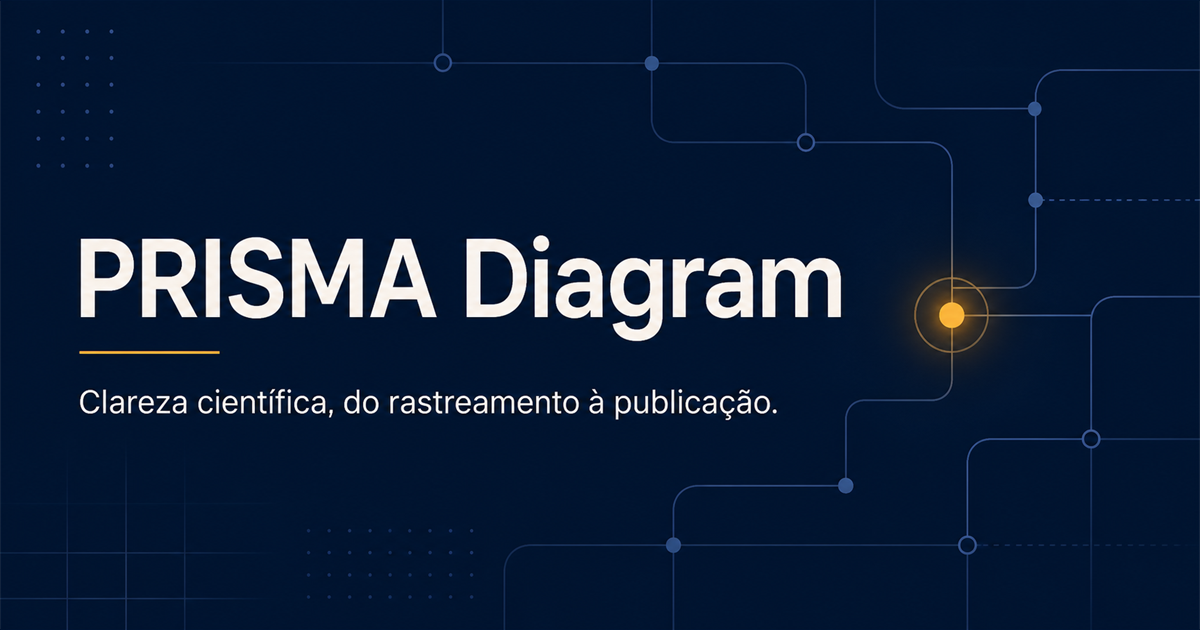
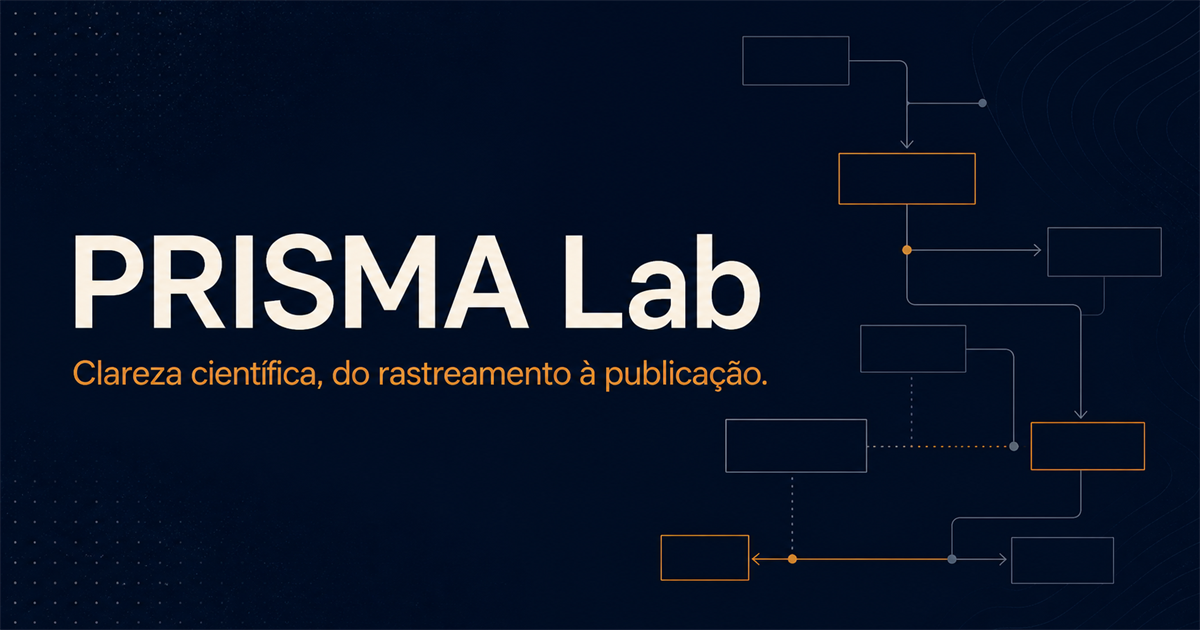
feat: rename application to PRISMA Lab

diff --git a/web/src/components/LandingPage.tsx b/web/src/components/LandingPage.tsx
@@ -5,12 +5,12 @@ import { useApp } from '../app/AppProviders';
 import type { Locale } from '../domain/types';
 
 const landing: Record<Locale, { eyebrow: string; title: string; emphasis: string; lead: string; primary: string; secondary: string; privacy: string; section: string; sectionLead: string }> = {
-  'pt-BR': { eyebrow: 'PRISMA 2020 · dados locais · seis idiomas', title: 'Diagrama', emphasis: 'PRISMA', lead: 'Construa, verifique e publique diagramas PRISMA 2020 com orientação metodológica, cálculos rastreáveis e controle total dos seus dados.', primary: 'Criar meu diagrama', secondary: 'Entender o PRISMA', privacy: 'Seus projetos permanecem neste navegador. Nenhum dado científico é enviado por padrão.', section: 'Uma ferramenta de relato, não um atalho metodológico.', sectionLead: 'Cada recurso preserva a distinção entre registros, relatos e estudos — sem corrigir dados científicos silenciosamente.' },
-  en: { eyebrow: 'PRISMA 2020 · local data · six languages', title: 'PRISMA', emphasis: 'Diagram', lead: 'Build, check and publish PRISMA 2020 diagrams with methodological guidance, traceable calculations and full control of your data.', primary: 'Create my diagram', secondary: 'Understand PRISMA', privacy: 'Projects stay in this browser. No scientific data is sent by default.', section: 'A reporting tool, not a methodological shortcut.', sectionLead: 'Every feature preserves the distinction between records, reports and studies—without silently correcting scientific data.' },
-  it: { eyebrow: 'PRISMA 2020 · dati locali · sei lingue', title: 'Diagramma', emphasis: 'PRISMA', lead: 'Crea, verifica e pubblica diagrammi PRISMA 2020 con guida metodologica, calcoli tracciabili e pieno controllo dei dati.', primary: 'Crea il diagramma', secondary: 'Comprendere PRISMA', privacy: 'I progetti restano nel browser. Nessun dato scientifico viene inviato per impostazione predefinita.', section: 'Uno strumento di reporting, non una scorciatoia metodologica.', sectionLead: 'Ogni funzione distingue record, report e studi senza correggere silenziosamente i dati.' },
-  fr: { eyebrow: 'PRISMA 2020 · données locales · six langues', title: 'Diagramme', emphasis: 'PRISMA', lead: 'Créez, vérifiez et publiez des diagrammes PRISMA 2020 avec des calculs traçables et le contrôle de vos données.', primary: 'Créer mon diagramme', secondary: 'Comprendre PRISMA', privacy: 'Les projets restent dans ce navigateur. Aucune donnée scientifique n’est envoyée par défaut.', section: 'Un outil de compte rendu, pas un raccourci méthodologique.', sectionLead: 'Chaque fonction distingue enregistrements, rapports et études sans corriger silencieusement les données.' },
-  de: { eyebrow: 'PRISMA 2020 · lokale Daten · sechs Sprachen', title: 'PRISMA', emphasis: 'Diagramm', lead: 'Erstellen, prüfen und veröffentlichen Sie PRISMA-2020-Diagramme mit nachvollziehbaren Berechnungen und voller Datenkontrolle.', primary: 'Diagramm erstellen', secondary: 'PRISMA verstehen', privacy: 'Projekte bleiben in diesem Browser. Wissenschaftliche Daten werden standardmäßig nicht gesendet.', section: 'Ein Berichtswerkzeug, keine methodische Abkürzung.', sectionLead: 'Jede Funktion unterscheidet Datensätze, Berichte und Studien, ohne Daten stillschweigend zu korrigieren.' },
-  'zh-CN': { eyebrow: 'PRISMA 2020 · 本地数据 · 六种语言', title: 'PRISMA', emphasis: '流程图', lead: '借助方法提示、可追溯计算和完全本地的数据控制，创建、检查并发布 PRISMA 2020 流程图。', primary: '创建流程图', secondary: '了解 PRISMA', privacy: '项目保存在此浏览器中，默认不会发送任何科研数据。', section: '报告工具，而非方法学捷径。', sectionLead: '每项功能都区分记录、报告和研究，绝不静默修改科研数据。' },
+  'pt-BR': { eyebrow: 'PRISMA 2020 · dados locais · seis idiomas', title: 'PRISMA', emphasis: 'Lab', lead: 'Construa, verifique e publique diagramas PRISMA 2020 com orientação metodológica, cálculos rastreáveis e controle total dos seus dados.', primary: 'Criar meu diagrama', secondary: 'Entender o PRISMA', privacy: 'Seus projetos permanecem neste navegador. Nenhum dado científico é enviado por padrão.', section: 'Uma ferramenta de relato, não um atalho metodológico.', sectionLead: 'Cada recurso preserva a distinção entre registros, relatos e estudos — sem corrigir dados científicos silenciosamente.' },
+  en: { eyebrow: 'PRISMA 2020 · local data · six languages', title: 'PRISMA', emphasis: 'Lab', lead: 'Build, check and publish PRISMA 2020 diagrams with methodological guidance, traceable calculations and full control of your data.', primary: 'Create my diagram', secondary: 'Understand PRISMA', privacy: 'Projects stay in this browser. No scientific data is sent by default.', section: 'A reporting tool, not a methodological shortcut.', sectionLead: 'Every feature preserves the distinction between records, reports and studies—without silently correcting scientific data.' },
+  it: { eyebrow: 'PRISMA 2020 · dati locali · sei lingue', title: 'PRISMA', emphasis: 'Lab', lead: 'Crea, verifica e pubblica diagrammi PRISMA 2020 con guida metodologica, calcoli tracciabili e pieno controllo dei dati.', primary: 'Crea il diagramma', secondary: 'Comprendere PRISMA', privacy: 'I progetti restano nel browser. Nessun dato scientifico viene inviato per impostazione predefinita.', section: 'Uno strumento di reporting, non una scorciatoia metodologica.', sectionLead: 'Ogni funzione distingue record, report e studi senza correggere silenziosamente i dati.' },
+  fr: { eyebrow: 'PRISMA 2020 · données locales · six langues', title: 'PRISMA', emphasis: 'Lab', lead: 'Créez, vérifiez et publiez des diagrammes PRISMA 2020 avec des calculs traçables et le contrôle de vos données.', primary: 'Créer mon diagramme', secondary: 'Comprendre PRISMA', privacy: 'Les projets restent dans ce navigateur. Aucune donnée scientifique n’est envoyée par défaut.', section: 'Un outil de compte rendu, pas un raccourci méthodologique.', sectionLead: 'Chaque fonction distingue enregistrements, rapports et études sans corriger silencieusement les données.' },
+  de: { eyebrow: 'PRISMA 2020 · lokale Daten · sechs Sprachen', title: 'PRISMA', emphasis: 'Lab', lead: 'Erstellen, prüfen und veröffentlichen Sie PRISMA-2020-Diagramme mit nachvollziehbaren Berechnungen und voller Datenkontrolle.', primary: 'Diagramm erstellen', secondary: 'PRISMA verstehen', privacy: 'Projekte bleiben in diesem Browser. Wissenschaftliche Daten werden standardmäßig nicht gesendet.', section: 'Ein Berichtswerkzeug, keine methodische Abkürzung.', sectionLead: 'Jede Funktion unterscheidet Datensätze, Berichte und Studien, ohne Daten stillschweigend zu korrigieren.' },
+  'zh-CN': { eyebrow: 'PRISMA 2020 · 本地数据 · 六种语言', title: 'PRISMA', emphasis: 'Lab', lead: '借助方法提示、可追溯计算和完全本地的数据控制，创建、检查并发布 PRISMA 2020 流程图。', primary: '创建流程图', secondary: '了解 PRISMA', privacy: '项目保存在此浏览器中，默认不会发送任何科研数据。', section: '报告工具，而非方法学捷径。', sectionLead: '每项功能都区分记录、报告和研究，绝不静默修改科研数据。' },
 };
 
 const stages = [

diff --git a/web/src/features/export/exporters.ts b/web/src/features/export/exporters.ts
@@ -118,7 +118,7 @@ export async function generatePdf(project: PrismaProject, locale: Locale): Promi
   doc.setTextColor(16, 35, 63);
   doc.setFont('helvetica', 'bold');
   doc.setFontSize(15);
-  doc.text(project.title || 'PRISMA Diagram', ox, 14, { maxWidth: usableWidth });
+  doc.text(project.title || 'PRISMA Lab', ox, 14, { maxWidth: usableWidth });
   doc.setDrawColor(23, 52, 93);
   doc.setLineWidth(0.35);
   connections.forEach((connection) => drawConnectionPath(doc, connection.d, ox, oy, scale));
@@ -161,7 +161,7 @@ export async function generateXlsx(project: PrismaProject): Promise<Blob> {
 export function generateInteractiveHtml(project: PrismaProject, locale: Locale): string {
   const svg = generateSvg(project, locale).replace(/^<\?xml[^>]+>/, '');
   const details = getDiagramNodes(project, locale).map((node) => `<article id="detail-${node.id}"><h2>${html(node.lines[0])}</h2><p>${html(node.lines.slice(1).join(' · '))}</p><p>Origem: ${html(calculateProject(project).origins[node.field])}</p></article>`).join('');
-  return `<!doctype html><html lang="${locale}"><head><meta charset="utf-8"><meta name="viewport" content="width=device-width,initial-scale=1"><title>${html(project.title)} — PRISMA Diagram</title><style>body{margin:0;font:16px/1.6 system-ui;color:#10233f;background:#f5f1e8}header,main,footer{max-width:1100px;margin:auto;padding:24px}svg{max-width:100%;height:auto;background:white;border:1px solid #bac5d2}article{border-top:1px solid #bac5d2;padding:16px 0}g[role=link]{cursor:pointer}g[role=link]:hover rect{stroke:#c97a16;stroke-width:3}</style></head><body><header><h1>${html(project.title)}</h1><p>Baseado no PRISMA 2020 · ferramenta independente</p></header><main>${svg}<section id="details">${details}</section></main><footer>CC BY 4.0 · Gerado pelo PRISMA Diagram</footer><script>document.querySelectorAll('g[role=link]').forEach(function(n){n.addEventListener('click',function(){var d=document.getElementById('detail-'+n.id);if(d)d.scrollIntoView({behavior:'smooth'})})})</script></body></html>`;
+  return `<!doctype html><html lang="${locale}"><head><meta charset="utf-8"><meta name="viewport" content="width=device-width,initial-scale=1"><title>${html(project.title)} — PRISMA Lab</title><style>body{margin:0;font:16px/1.6 system-ui;color:#10233f;background:#f5f1e8}header,main,footer{max-width:1100px;margin:auto;padding:24px}svg{max-width:100%;height:auto;background:white;border:1px solid #bac5d2}article{border-top:1px solid #bac5d2;padding:16px 0}g[role=link]{cursor:pointer}g[role=link]:hover rect{stroke:#c97a16;stroke-width:3}</style></head><body><header><h1>${html(project.title)}</h1><p>Baseado no PRISMA 2020 · ferramenta independente</p></header><main>${svg}<section id="details">${details}</section></main><footer>CC BY 4.0 · Gerado pelo PRISMA Lab</footer><script>document.querySelectorAll('g[role=link]').forEach(function(n){n.addEventListener('click',function(){var d=document.getElementById('detail-'+n.id);if(d)d.scrollIntoView({behavior:'smooth'})})})</script></body></html>`;
 }
 
 export function generateReportHtml(project: PrismaProject, locale: Locale): string {
@@ -189,6 +189,6 @@ export async function exportProject(project: PrismaProject, locale: Locale, form
   zip.file(name('html'), generateInteractiveHtml(project, locale));
   zip.file(name('report.html'), generateReportHtml(project, locale));
   zip.file(name('xlsx'), await generateXlsx(project));
-  zip.file('README.txt', `PRISMA Diagram\n\nProjeto: ${project.title}\nDiretriz: PRISMA 2020\nFerramenta independente. Templates PRISMA 2020: CC BY 4.0.\nFontes verificadas em 26 ago. 2026.\nhttps://www.prisma-statement.org/prisma-2020\n`);
+  zip.file('README.txt', `PRISMA Lab\n\nProjeto: ${project.title}\nDiretriz: PRISMA 2020\nFerramenta independente. Templates PRISMA 2020: CC BY 4.0.\nFontes verificadas em 26 ago. 2026.\nhttps://www.prisma-statement.org/prisma-2020\n`);
   downloadBlob(await zip.generateAsync({ type: 'blob' }), name('zip'), 'application/zip');
 }

diff --git a/web/app/about/page.tsx b/web/app/about/page.tsx
@@ -2,11 +2,11 @@ import type { Metadata } from 'next';
 import { InfoPage } from '@/src/components/InfoPage';
 
 export const dynamic = 'force-static';
-export const metadata: Metadata = { title: 'Sobre', description: 'Sobre o PRISMA Diagram, seus objetivos, público e independência.', alternates: { canonical: '/about' } };
+export const metadata: Metadata = { title: 'Sobre', description: 'Sobre o PRISMA Lab, seus objetivos, público e independência.', alternates: { canonical: '/about' } };
 const faq = [
-  ['O PRISMA Diagram certifica uma revisão?', 'Não. A aplicação verifica a consistência do diagrama e auxilia o relato, mas não certifica o manuscrito nem garante aceitação editorial.'],
+  ['O PRISMA Lab certifica uma revisão?', 'Não. A aplicação verifica a consistência do diagrama e auxilia o relato, mas não certifica o manuscrito nem garante aceitação editorial.'],
   ['Meus dados são enviados a um servidor?', 'Não por padrão. Projetos e exportações são processados localmente no navegador.'],
   ['Qual é a diferença entre estudo e relato?', 'Um estudo é a investigação única; um ou mais documentos — os relatos — podem descrever o mesmo estudo.'],
   ['Posso usar o diagrama em uma publicação?', 'Sim, respeitando a atribuição CC BY 4.0 dos templates PRISMA 2020 e as políticas da revista.'],
 ];
-export default function AboutPage() { return <InfoPage eyebrow="PROJETO AUTORAL · CIÊNCIA ABERTA" title="Sobre o PRISMA Diagram" lead="Uma ferramenta independente para transformar contagens e decisões documentadas em relatos mais claros, rastreáveis e publicáveis."><h2>Propósito</h2><p>O PRISMA Diagram atende pesquisadores, estudantes, bibliotecários, orientadores, revisores e editores envolvidos em síntese de evidências. Ele combina educação, edição vetorial, validação numérica, checklist e exportação científica.</p><h2>Princípios</h2><ul><li>Dados locais e portáveis.</li><li>Regras determinísticas e explicáveis.</li><li>Sem correções silenciosas de dados científicos.</li><li>Acessibilidade e internacionalização desde o modelo de domínio.</li><li>Independência institucional explícita.</li></ul><h2>Perguntas frequentes</h2>{faq.map(([question, answer]) => <details key={question}><summary>{question}</summary><p>{answer}</p></details>)}</InfoPage>; }
+export default function AboutPage() { return <InfoPage eyebrow="PROJETO AUTORAL · CIÊNCIA ABERTA" title="Sobre o PRISMA Lab" lead="Uma ferramenta independente para transformar contagens e decisões documentadas em relatos mais claros, rastreáveis e publicáveis."><h2>Propósito</h2><p>O PRISMA Lab atende pesquisadores, estudantes, bibliotecários, orientadores, revisores e editores envolvidos em síntese de evidências. Ele combina educação, edição vetorial, validação numérica, checklist e exportação científica.</p><h2>Princípios</h2><ul><li>Dados locais e portáteis.</li><li>Regras determinísticas e explicáveis.</li><li>Sem correções silenciosas de dados científicos.</li><li>Acessibilidade e internacionalização desde o modelo de domínio.</li><li>Independência institucional explícita.</li></ul><h2>Perguntas frequentes</h2>{faq.map(([question, answer]) => <details key={question}><summary>{question}</summary><p>{answer}</p></details>)}</InfoPage>; }

diff --git a/web/app/license/page.tsx b/web/app/license/page.tsx
@@ -1,5 +1,5 @@
 import type { Metadata } from 'next';
 import { InfoPage } from '@/src/components/InfoPage';
 export const dynamic = 'force-static';
-export const metadata: Metadata = { title: 'Licença', description: 'Licenças do código, conteúdo e templates usados pelo PRISMA Diagram.', alternates: { canonical: '/license' } };
-export default function LicensePage() { return <InfoPage eyebrow="PROVENIÊNCIA" title="Licenças e atribuições" lead="O código do PRISMA Diagram é MIT; documentos e templates PRISMA 2020 usados como base são CC BY 4.0."><h2>Código</h2><p>Copyright © 2026 Gustavo Simas. Licenciado sob MIT, conforme o arquivo LICENSE do repositório.</p><h2>PRISMA 2020</h2><p>Os templates de diagrama, checklist, statement e explanation &amp; elaboration são distribuídos sob CC BY 4.0. Atribuição: Page MJ et al. The PRISMA 2020 statement. BMJ 2021;372:n71; e documentos oficiais do PRISMA Executive.</p><h2>Bibliotecas</h2><p>React, Next/Vinext, Vite, Dexie, Zod, Zustand, JSZip, SheetJS, jsPDF, Lucide, Vitest, Testing Library, Playwright e axe-core mantêm suas respectivas licenças.</p></InfoPage>; }
+export const metadata: Metadata = { title: 'Licença', description: 'Licenças do código, conteúdo e templates usados pelo PRISMA Lab.', alternates: { canonical: '/license' } };
+export default function LicensePage() { return <InfoPage eyebrow="PROVENIÊNCIA" title="Licenças e atribuições" lead="O código do PRISMA Lab é MIT; documentos e templates PRISMA 2020 usados como base são CC BY 4.0."><h2>Código</h2><p>Copyright © 2026 Gustavo Simas. Licenciado sob MIT, conforme o arquivo LICENSE do repositório.</p><h2>PRISMA 2020</h2><p>Os templates de diagrama, checklist, statement e explanation &amp; elaboration são distribuídos sob CC BY 4.0. Atribuição: Page MJ et al. The PRISMA 2020 statement. BMJ 2021;372:n71; e documentos oficiais do PRISMA Executive.</p><h2>Bibliotecas</h2><p>React, Next/Vinext, Vite, Dexie, Zod, Zustand, JSZip, SheetJS, jsPDF, Lucide, Vitest, Testing Library, Playwright e axe-core mantêm suas respectivas licenças.</p></InfoPage>; }

diff --git a/web/app/layout.tsx b/web/app/layout.tsx
@@ -16,9 +16,9 @@ export const dynamic = 'force-static';
 
 export const metadata: Metadata = {
   metadataBase: siteUrl,
-  title: { default: 'PRISMA Diagram — clareza científica do rastreamento à publicação', template: '%s · PRISMA Diagram' },
+  title: { default: 'PRISMA Lab — clareza científica do rastreamento à publicação', template: '%s · PRISMA Lab' },
   description: 'Aplicação independente para criar, validar e exportar diagramas baseados no PRISMA 2020, com processamento local e seis idiomas.',
-  applicationName: 'PRISMA Diagram',
+  applicationName: 'PRISMA Lab',
   keywords: ['PRISMA 2020', 'systematic review', 'flow diagram', 'evidence synthesis'],
   authors: [{ name: 'Gustavo Simas', url: 'https://gustavosimas.com/' }],
   creator: 'Gustavo Simas',
@@ -28,14 +28,14 @@ export const metadata: Metadata = {
   },
   openGraph: {
     type: 'website',
-    title: 'PRISMA Diagram',
+    title: 'PRISMA Lab',
     description: 'Clareza científica, do rastreamento à publicação.',
-    siteName: 'PRISMA Diagram',
-    images: [{ url: '/og.png', width: 1200, height: 630, alt: 'PRISMA Diagram — Clareza científica, do rastreamento à publicação.' }],
+    siteName: 'PRISMA Lab',
+    images: [{ url: '/og.png', width: 1200, height: 630, alt: 'PRISMA Lab — Clareza científica, do rastreamento à publicação.' }],
   },
   twitter: {
     card: 'summary_large_image',
-    title: 'PRISMA Diagram',
+    title: 'PRISMA Lab',
     description: 'Clareza científica, do rastreamento à publicação.',
     images: ['/og.png'],
   },
@@ -55,7 +55,7 @@ export const viewport: Viewport = {
 const structuredData = {
   '@context': 'https://schema.org',
   '@type': ['SoftwareApplication', 'WebApplication', 'LearningResource'],
-  name: 'PRISMA Diagram',
+  name: 'PRISMA Lab',
   applicationCategory: 'EducationalApplication',
   operatingSystem: 'Any',
   isAccessibleForFree: true,

diff --git a/web/app/methodology/page.tsx b/web/app/methodology/page.tsx
@@ -1,5 +1,5 @@
 import type { Metadata } from 'next';
 import { InfoPage } from '@/src/components/InfoPage';
 export const dynamic = 'force-static';
-export const metadata: Metadata = { title: 'Metodologia', description: 'Posicionamento metodológico, cálculos e limites das validações do PRISMA Diagram.', alternates: { canonical: '/methodology' } };
+export const metadata: Metadata = { title: 'Metodologia', description: 'Posicionamento metodológico, cálculos e limites das validações do PRISMA Lab.', alternates: { canonical: '/methodology' } };
 export default function MethodologyPage() { return <InfoPage eyebrow="REGRAS EXPLÍCITAS" title="Metodologia da aplicação" lead="O sistema modela registros, relatos e estudos como unidades diferentes e deriva valores apenas quando a relação é metodologicamente defensável."><h2>Posicionamento</h2><p>PRISMA é uma diretriz para melhorar a transparência e a completude do relato de revisões; não é uma metodologia para executar a revisão. O aplicativo oferece assistência ao relato e validação de consistência do diagrama.</p><h2>Cálculos</h2><p>Valores derivados exibem a memória da operação. Sobrescrições manuais exigem justificativa e permanecem marcadas. Nenhum total é modificado apenas para “fechar” o fluxo.</p><h2>Classificação das regras</h2><ul><li>Válida: relação verificada.</li><li>Atenção: situação possível que merece revisão.</li><li>Inconsistência: relação numérica incompatível.</li><li>Informação ausente: campo necessário sem valor.</li><li>Não aplicável: etapa fora do modelo selecionado.</li></ul><h2>Limite</h2><p>As verificações não avaliam integralmente a estratégia de busca, critérios, risco de viés, síntese ou qualidade científica do manuscrito.</p></InfoPage>; }

diff --git a/web/app/privacy/page.tsx b/web/app/privacy/page.tsx
@@ -1,5 +1,5 @@
 import type { Metadata } from 'next';
 import { InfoPage } from '@/src/components/InfoPage';
 export const dynamic = 'force-static';
-export const metadata: Metadata = { title: 'Privacidade', description: 'Como o PRISMA Diagram processa e armazena dados localmente.', alternates: { canonical: '/privacy' } };
+export const metadata: Metadata = { title: 'Privacidade', description: 'Como o PRISMA Lab processa e armazena dados localmente.', alternates: { canonical: '/privacy' } };
 export default function PrivacyPage() { return <InfoPage eyebrow="LOCAL-FIRST" title="Privacidade por arquitetura" lead="O funcionamento central não exige cadastro, cookies de rastreamento, analytics invasivo ou envio de dados científicos."><h2>Armazenamento</h2><p>Projetos são persistidos em IndexedDB no próprio navegador. Preferências de idioma, tema e acessibilidade usam armazenamento local. Limpar os dados do site pode apagar projetos sem backup.</p><h2>Exportações e links</h2><p>Arquivos são gerados no dispositivo. Links externos só são abertos por ação do usuário. O aplicativo não coloca dados do projeto em URLs.</p><h2>Responsabilidade</h2><p>Evite inserir ou publicar resultados licenciados de bases, resumos protegidos, dados pessoais ou arquivos que contrariem direitos autorais e termos de uso. Gere backups JSON regularmente.</p></InfoPage>; }

diff --git a/web/app/accessibility/page.tsx b/web/app/accessibility/page.tsx
@@ -1,5 +1,5 @@
 import type { Metadata } from 'next';
 import { InfoPage } from '@/src/components/InfoPage';
 export const dynamic = 'force-static';
-export const metadata: Metadata = { title: 'Acessibilidade', description: 'Recursos e compromisso WCAG 2.2 AA do PRISMA Diagram.', alternates: { canonical: '/accessibility' } };
+export const metadata: Metadata = { title: 'Acessibilidade', description: 'Recursos e compromisso WCAG 2.2 AA do PRISMA Lab.', alternates: { canonical: '/accessibility' } };
 export default function AccessibilityPage() { return <InfoPage eyebrow="WCAG 2.2 AA" title="Acessibilidade" lead="A interface foi projetada para operar com teclado, ampliação, alto contraste, redução de movimento e tecnologias assistivas."><h2>Recursos</h2><ul><li>Skip links, foco visível e ordem lógica.</li><li>Labels explícitos, erros associados e regiões ao vivo.</li><li>Alternativa textual e tabular para o SVG.</li><li>Alvos de toque e drawers responsivos.</li><li>Tema claro, escuro, alto contraste e escala de fonte.</li><li>Preferência de movimento reduzido.</li></ul><h2>Limitações e contato</h2><p>Acessibilidade é um processo contínuo. Exportações complexas podem variar conforme leitor de PDF ou editor gráfico; use o HTML interativo para a alternativa mais rica.</p></InfoPage>; }

diff --git a/web/src/features/assistant/context.ts b/web/src/features/assistant/context.ts
@@ -5,11 +5,11 @@ import { localeNames } from '../../i18n/translations';
 
 const truncate = (value: string, max: number) => (value.length > max ? `${value.slice(0, max)}…` : value);
 
-const SYSTEM_PROMPT = `You are "Primi", the AI assistant embedded in the PRISMA Diagram web app.
+const SYSTEM_PROMPT = `You are "Primi", the AI assistant embedded in the PRISMA Lab web app.
 
 SCOPE — you may only help with:
 1. The PRISMA 2020 reporting guideline and systematic-review methodology in general (search flow, screening, eligibility, exclusion reasons, the PRISMA checklist, PRISMA extensions).
-2. How to use the PRISMA Diagram app itself (builder, validation, checklist, export, presentation mode).
+2. How to use the PRISMA Lab app itself (builder, validation, checklist, export, presentation mode).
 3. Explaining, checking, or discussing the specific project data provided to you below in the PROJECT DATA block (counts, sources, validation issues, checklist progress).
 
 If a request falls outside this scope (general chit-chat, coding help unrelated to PRISMA, medical/legal/financial advice, creative writing, or anything about a different topic), politely decline in one or two sentences and redirect the user to ask about PRISMA or their project.

diff --git a/web/src/features/builder/BuilderWorkspace.tsx b/web/src/features/builder/BuilderWorkspace.tsx
@@ -315,7 +315,7 @@ export function BuilderWorkspace() {
         <div className="modal-backdrop" role="presentation">
           <section className="modal" role="alertdialog" aria-modal="true" aria-labelledby="clear-title">
             <h2 id="clear-title">Limpar todos os dados?</h2>
-            <p>Contagens, razões de exclusão, fontes, checklist e proveniência deste projeto serão apagados. Título, autores e o modelo do fluxo são mantidos. Você pode desfazer com o botão "Desfazer" logo em seguida.</p>
+            <p>Contagens, razões de exclusão, fontes, checklist e proveniência deste projeto serão apagados. Título, autores e o modelo do fluxo são mantidos. Você pode desfazer com o botão &quot;Desfazer&quot; logo em seguida.</p>
             <div>
               <button className="secondary-button" type="button" onClick={() => setConfirmClear(false)}>Cancelar</button>
               <button className="danger-button" type="button" onClick={() => { clearAll(); setConfirmClear(false); }}>Limpar tudo</button>

diff --git a/web/src/components/GlobalHeader.tsx b/web/src/components/GlobalHeader.tsx
@@ -12,11 +12,11 @@ export function GlobalHeader() {
     <>
       <a className="skip-link" href="#main-content">{locale === 'pt-BR' ? 'Pular para o conteúdo' : 'Skip to content'}</a>
       <header className="global-header">
-        <Link className="brand" href="/" aria-label="PRISMA Diagram">
+        <Link className="brand" href="/" aria-label="PRISMA Lab">
           <span className="brand-mark" aria-hidden="true">
             <svg viewBox="0 0 24 24" width="26" height="26" fill="currentColor"><rect x="3" y="3" width="18" height="4" rx="1.2" /><rect x="6" y="10" width="12" height="4" rx="1.2" /><rect x="9" y="17" width="6" height="4" rx="1.2" /></svg>
           </span>
-          <span><strong>PRISMA Diagram</strong><small>scientific reporting studio</small></span>
+          <span><strong>PRISMA Lab</strong><small>scientific reporting studio</small></span>
         </Link>
         <nav className="desktop-nav" aria-label="Navegação principal">
           <a href="/learn">{t('learn')}</a>

diff --git a/web/app/sources/page.tsx b/web/app/sources/page.tsx
@@ -2,7 +2,7 @@ import type { Metadata } from 'next';
 import { InfoPage } from '@/src/components/InfoPage';
 
 export const dynamic = 'force-static';
-export const metadata: Metadata = { title: 'Fontes e referências', description: 'Fontes metodológicas, versões, licenças e proveniência das traduções do PRISMA Diagram.', alternates: { canonical: '/sources' } };
+export const metadata: Metadata = { title: 'Fontes e referências', description: 'Fontes metodológicas, versões, licenças e proveniência das traduções do PRISMA Lab.', alternates: { canonical: '/sources' } };
 
 const sources = [
   ['PRISMA website', 'https://www.prisma-statement.org/', 'Definição e documentos principais'],
